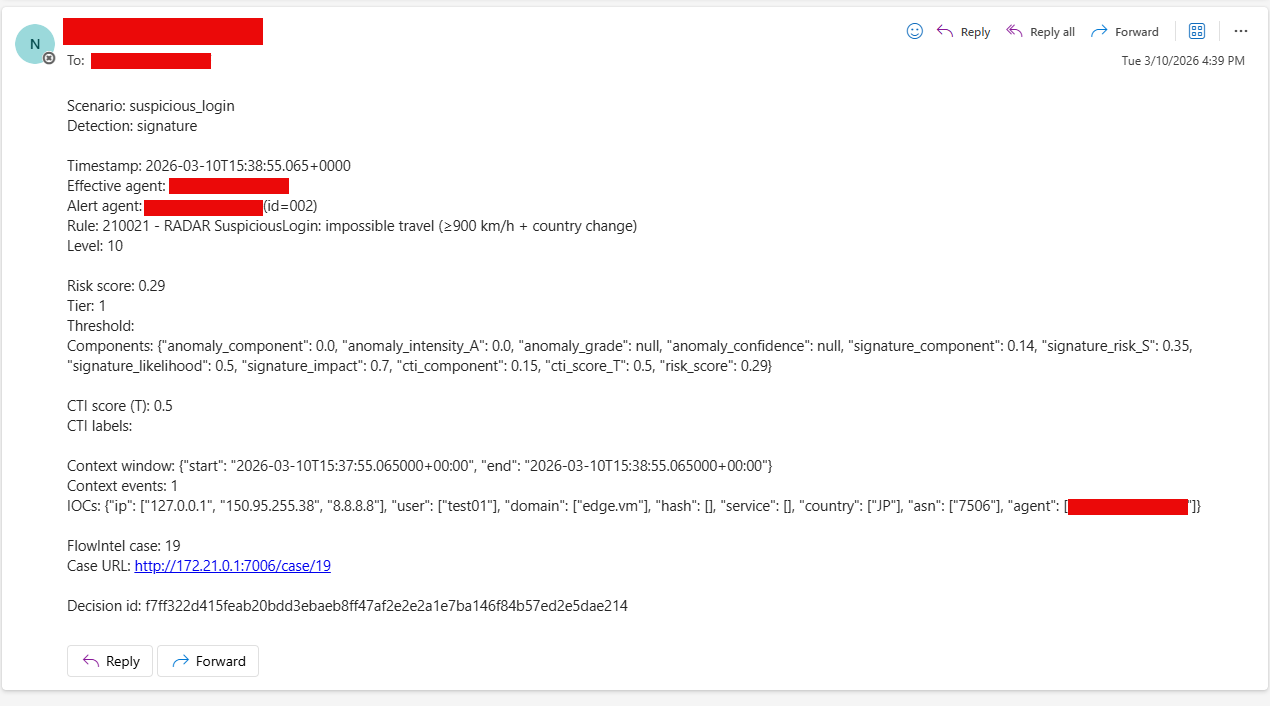
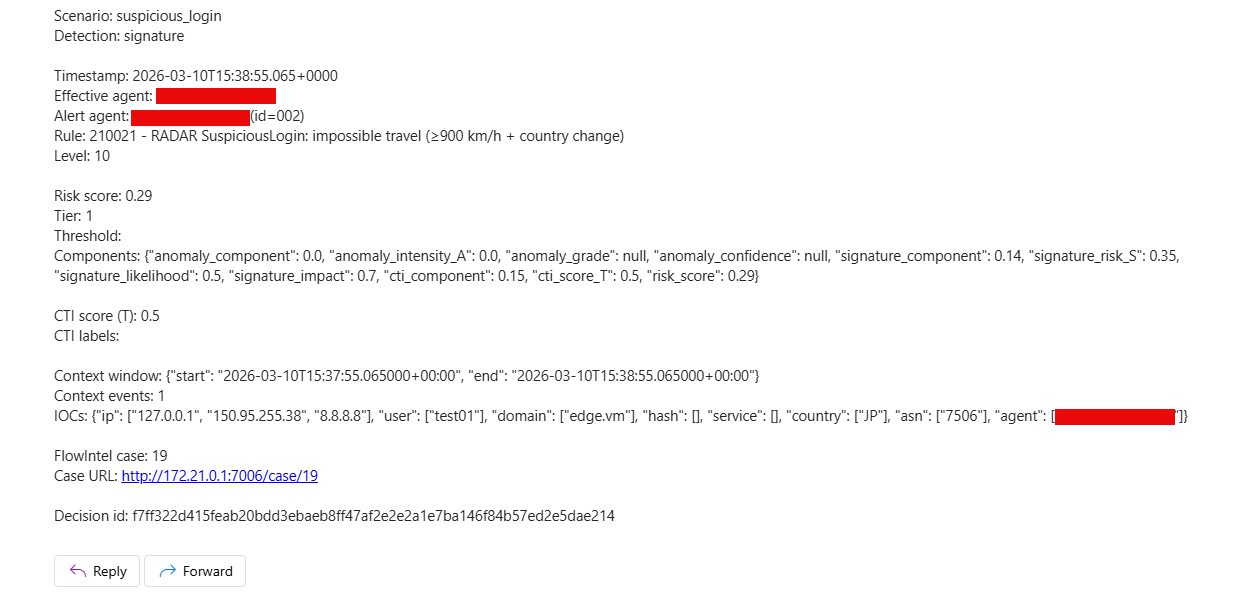
Patch v0.8.1
## Modified

- Revisions in the main README

diff --git a/README.md b/README.md
@@ -9,13 +9,13 @@ IDPS-ESCAPE (Intrusion Detection and Prevention System - Enhanced Security throu
 - [**SONAR**](/sonar/README.md) - Production-grade multivariate anomaly detection powered by deep learning
 - [**ADBox**](/docs/manual/adbox_docs/adbox.md) - Legacy research framework
 
-**Built on:** [Ansible](https://github.com/ansible/ansible), [OpenSearch](https://opensearch.org/), [Wazuh](https://wazuh.com/), [Flowintel](https://github.com/flowintel/flowintel) and [PyFlowintel](https://github.com/AbstractionsLab/PyFlowintel), [Suricata](https://suricata.io/), [MISP](https://www.misp-project.org/)
+**Built on:** [Ansible](https://github.com/ansible/ansible), [OpenSearch](https://opensearch.org/), [Wazuh](https://wazuh.com/), [SATRAP-DL](https://github.com/AbstractionsLab/satrap-dl), [PyFlowintel](https://github.com/AbstractionsLab/PyFlowintel), [Flowintel](https://github.com/flowintel/flowintel), [MISP](https://www.misp-project.org/), [Suricata](https://suricata.io/)
 
 We adopt a **hybrid detection approach** for defense-in-depth against known and emerging threats, combining signature-based engines (Wazuh, Suricata) and machine learning (ML) algorithms for ML-based anomaly detection (AD) through SONAR and RADAR relying on [MTAD-GAT](https://arxiv.org/pdf/2009.02040) (attention mechanism and deep learning) and [RRCF](https://proceedings.mlr.press/v48/guha16.pdf) (random forest) for streaming data, respectively.
 
-This repository contains complete [documentation](./docs/manual/README.md), user manual, technical specifications, and validation test reports based on the [C5-DEC](https://github.com/AbstractionsLab/c5dec) method. See our **[traceability website](https://abstractionslab.github.io/idps-escape/traceability/index.html)** for interlinked specifications.
+This repository contains complete [documentation](./docs/manual/README.md), user manual, **[interlinked technical specifications](https://abstractionslab.github.io/idps-escape/traceability/index.html)** for traceability, and validation test results, all based on the [C5-DEC](https://abstractionslab.github.io/c5dec/website/product-presentation.html) method.
 
-For a visual stakeholder-oriented tour of IDPS-ESCAPE, visit the **[product presentation page](https://abstractionslab.github.io/idps-escape/website/product-presentation.html)**.
+For a visual user-oriented tour of IDPS-ESCAPE, visit the **[product presentation page](https://abstractionslab.github.io/idps-escape/website/product-presentation.html)**.
 
 <img src="./docs/manual/_figures/IDPS-ESCAPE-product-website.png" alt="idps-escape-website" width="500"/>
 
@@ -44,14 +44,6 @@ For a visual stakeholder-oriented tour of IDPS-ESCAPE, visit the **[product pres
 - **Production scenarios**: GeoIP detection, log volume monitoring, suspicious login
 - **Experimental scenarios**: Insider threat, DDoS, C2 malware (require adaptation)
 
-**Deployment modes:**
-
-| Wazuh Manager | Wazuh Agents | Use Case |
-|---------------|--------------|----------|
-| Local | Local | Single-node testing/development |
-| Local | Remote | Central manager with distributed endpoints |
-| Remote | Remote | Fully distributed production |
-
 See [RADAR README](/docs/manual/radar_docs/README.md), [scenarios](/radar/scenarios/README.md), [adversarial ML guidance](/docs/manual/radar_docs/adversarial-ml-guidance.md) and [developer README](/radar/README.md).
 
 ### SONAR - SIEM-Oriented Neural Anomaly Recognition via multivariate AD
@@ -68,13 +60,7 @@ See [SONAR README](/docs/manual/sonar_docs/README.md), [scenario guide](/docs/ma
 
 ### Fully automated deployment with Ansible
 
-We [provide a complete **Infrastructure-as-Code** (IaC)](/radar/README.md) deployment mechanism using [Ansible](https://github.com/ansible/ansible), enabling teams to spin up a fully operational environment automatically and consistently, currently supporting only RADAR. This ensures a reproducible, scalable installation process suitable for production environments, testbeds, or research. We also provide a [**detailed technical documentation**](/docs/manual/radar_docs/radar-manager-ansible-playbook.md) of the manager automation pipeline.
-
-The automated setup includes:
-
-- **Wazuh Manager**: automatically installed and configured for signature-based and ML-based monitoring, AD and alerting.
-- **Wazuh Agents**: deployed to monitored endpoints without manual intervention.
-- **RADAR stack**: including all dependencies, configuration templates, and communication channels between RADAR, Wazuh, SONAR, and ADBox.
+RADAR ships [complete Ansible IaC](/radar/README.md) for reproducible, production-ready deployments — covering the Wazuh Manager, Wazuh Agents, and the full RADAR stack. See the [pipeline documentation](/docs/manual/radar_docs/radar-manager-ansible-playbook.md) for details.
 
 ### ADBox (Legacy)
 
@@ -110,34 +96,20 @@ See our [user manual](./docs/manual/README.md) for comprehensive documentation o
 ```bash
 # Bootstrap entire stack with Ansible
 cd radar
-sudo ./build-radar.sh geoip_detection --agent remote --manager local --manager_exists false
+sudo ./build-radar.sh suspicious_login --agent remote --manager local --manager_exists false
 ```
 
-See the [RADAR getting started](/docs/manual/radar_docs/radar-getting-started.md) page for more details.
+See the [RADAR getting started](/docs/manual/radar_docs/radar-getting-started.md) page for full details.
 
-**What this deploys:**
-- Wazuh Manager with scenario-specific rules, decoders, and active responses
-- Wazuh Agents on remote endpoints with RADAR Helper (GeoIP enrichment)
-- OpenSearch detector and monitor for anomaly detection (only if applicable, e.g. in log volume change scenario)
-- Webhook service for alert routing
-- Complete automation pipeline for the chosen scenario
-
-Here we provide screenshots of a successful run of the Suspicious Login detection RADAR scenario:
+Screenshots from a Suspicious Login scenario run:
 
 ![Wazuh Dashboard RADAR Suspicious Login detection](/docs/manual/_figures/RADAR-v0.8-wazuh-dashboard.png)
 
-The active response sends an email to a designated recipient.
-![](/docs/manual/_figures/RADAR-v0.8-email-suspicious-login.png)
+![Email alert sent by active response](/docs/manual/_figures/RADAR-v0.8-email-suspicious-login.png)
 
-Additionally, the active response creates a case in FlowIntel for high risk alerts via the DECIPHER service.
+![RADAR DECIPHER MISP lookup — CTI scoring via MISP](/docs/manual/_figures/RADAR-DECIPHER-MISP-lookup.png)
 
-To compute the threat context for that response, RADAR calls DECIPHER's dedicated analysis endpoint — a distinct API endpoint separate from ordinary RADAR flows. It passes an information bundle assembled from the detection of the given scenario: alert metadata, source IP, relevant event fields, and scenario-specific context. DECIPHER processes this bundle and returns a CTI score together with enriched threat intelligence results to RADAR, which feeds the score directly into its risk computation. As part of scoring, DECIPHER performs a series of indicator lookups in MISP via `pymisp` — for example, checking whether a source IP appears as a known malicious attribute on any MISP event — and factors those findings into the final CTI score. The screenshot below shows an example MISP event consulted during this process, recording a malicious `ip-src` indicator that DECIPHER would match against the bundle supplied by RADAR:
-
-![RADAR DECIPHER MISP lookup — ip-src event in MISP](/docs/manual/_figures/RADAR-DECIPHER-MISP-lookup.png "MISP event consulted by DECIPHER during CTI scoring for a RADAR scenario")
-
-![FlowIntel case created by RADAR via DECIPHER](/docs/manual/_figures/RADAR-v0.8-FlowIntel-case.png)
-
-See [RADAR getting started](/docs/manual/radar_docs/radar-getting-started.md) for deployment modes and configuration.
+![FlowIntel incident case created by RADAR via DECIPHER](/docs/manual/_figures/RADAR-v0.8-FlowIntel-case.png)
 
 ### SONAR usage
 
@@ -172,38 +144,18 @@ What `--ship` does:
 - Installs index templates for proper field typing and validation
 - Required for production SONAR→RADAR workflows
 
-**Why shipping matters**: Without `--ship`, anomalies are indexed to a generic index. With `--ship`, each scenario gets a dedicated data stream (e.g., `sonar_anomalies_mvad_brute_force_v1`), enabling scenario-specific RADAR rules, dedicated dashboards, and independent data lifecycle policies.
-
-```bash
-# Ship anomalies to dedicated data stream during detection
-poetry run sonar detect --scenario sonar/scenarios/my_scenario.yaml --ship
-```
-
-**Benefits:**
-- **Scenario isolation**: Each model gets its own data stream (e.g., `sonar_anomalies_mvad_brute_force_v1`)
-- **RADAR integration**: Anomalies automatically available for automated response
-- **Dashboard visualization**: Dedicated index for SIEM dashboard widgets
-- **Data lifecycle management**: Built-in rollover policies for stream management
-
 See the [data shipping guide](/docs/manual/sonar_docs/data-shipping-guide.md) for configuration details and the [dashboard tutorial](/docs/manual/adbox_docs/dashboard_tutorial.md) for visualization and instructions explaining how to build such a dashboard (same process for SONAR and ADBox).
 
 ![](/docs/manual/_figures/1BA5_Tutorial_Dashboard/1BA5_25-Dashboard-10.png)
 
 ### Evaluating SONAR (5 minutes)
 
-**Zero infrastructure required** - SONAR's debug mode uses synthetic test data for offline evaluation:
+No infrastructure required — debug mode runs the full train → detect → report workflow offline with synthetic data:
 
 ```bash
-# Install and test with debug mode (no Wazuh, no OpenSearch, no containers)
 poetry install --with sonar
 poetry run sonar scenario --use-case sonar/scenarios/example_scenario.yaml --debug
 ```
-
-**What debug mode provides:**
-- Offline testing with pre-generated synthetic alerts
-- Complete train → detect → report workflow
-- Model evaluation without infrastructure overhead
-- Ideal for proof-of-concept and algorithm evaluation
 
 ### Requirements
 
@@ -217,16 +169,7 @@ poetry run sonar scenario --use-case sonar/scenarios/example_scenario.yaml --deb
 | **Wazuh Agents** | 512 MB each | ~500 MB each | 1 core |
 | **Full Stack** | 16 GB+ | ~26 GB total | 8+ cores |
 
-#### Network requirements
-
-- **Wazuh Manager**: Port 55000 (API), Port 1514/1515 (agent communication)
-- **OpenSearch/Wazuh Indexer**: Port 9200 (HTTPS)
-- **RADAR Webhook**: Port 8080 (configurable in `.env`)
-- **FlowIntel** (optional): Port 7006 (API)
-
-#### Deployment flexibility
-
-Components can run on separate nodes for distributed deployments. See [deployment guide](./deployment/README.md) for multi-node setups and [Docker deployment](./deployment/README.md#docker-deployment) for containerized options.
+See [deployment guide](./deployment/README.md) for network requirements and multi-node setups.
 
 ### Docker deployment
 
@@ -273,22 +216,15 @@ See [SONAR README](/sonar/README.md) and [RADAR README](/radar/README.md) for co
 
 ## Testing
 
-See our [traceability page](https://abstractionslab.github.io/idps-escape/traceability/index.html) for test reports ([TRP](https://abstractionslab.github.io/idps-escape/docs/traceability/TRP.html)) and [RADAR test framework](/radar/radar-test-framework/README.md) for automated experimentation.
+See our test report (TRP) in the list of published documents on the [technical specifications traceability page](https://abstractionslab.github.io/idps-escape/traceability/index.html) detailing the validation test campaign results. Unit tests are available in the `tests` folder.
 
 ## Roadmap
 
-- Integration with the [DECIPHER](https://github.com/AbstractionsLab/satrap-dl/tree/main/decipher) subsystem of [SATRAP-DL](https://github.com/AbstractionsLab/satrap-dl)
-- Enhancing the RADAR lightweight risk engine with real-time CTI analysis by DECIPHER (in turn integrated with MISP)
-- Automating SONAR-RADAR integration
-- Scenarios with advanced hybrid correlation (signatures + RRCF + SONAR anomalies)
-- Automatic model retraining (schedule-based, drift-triggered)
-- Extended categorical feature support
-- New scenario templates
-- Greater robustness against adversarial ML
-- [SATRAP](https://github.com/AbstractionsLab/satrap-dl) CTI integration
-- [OpenTRICK](https://github.com/itrust-consulting/OpenTRICK) asset graph conversion
-
-See [Wiki](https://github.com/AbstractionsLab/idps-escape/wiki) for detailed roadmap.
+- Web-based management interface for our Ansible-based RADAR deployment solution
+- Support for automatic Wazuh multi-node RADAR deployment
+- New detection and response scenarios via hybrid correlation (signatures + RRCF + SONAR anomalies)
+- Automatic model retraining in SONAR (schedule-based, drift-triggered)
+- Automated SONAR-RADAR integration
 
 ## Disclaimer
 

diff --git a/CHANGELOG.md b/CHANGELOG.md
@@ -1,3 +1,9 @@
+# 0.8.1 (2026-03-16)
+
+## Modified
+
+- Revisions in the main README
+
 # 0.8 (2026-03-15)
 
 ## Added
